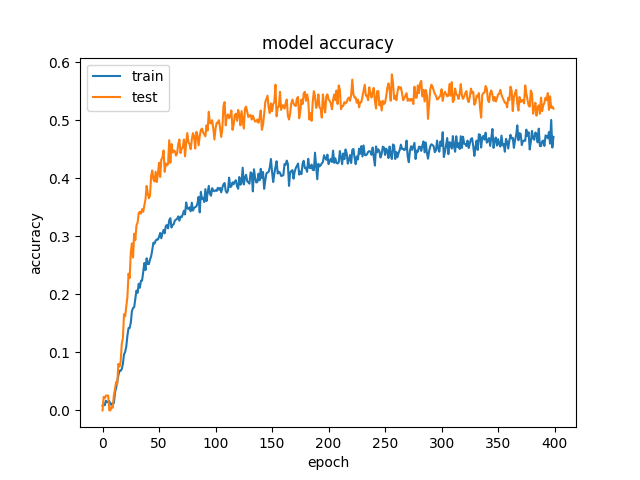
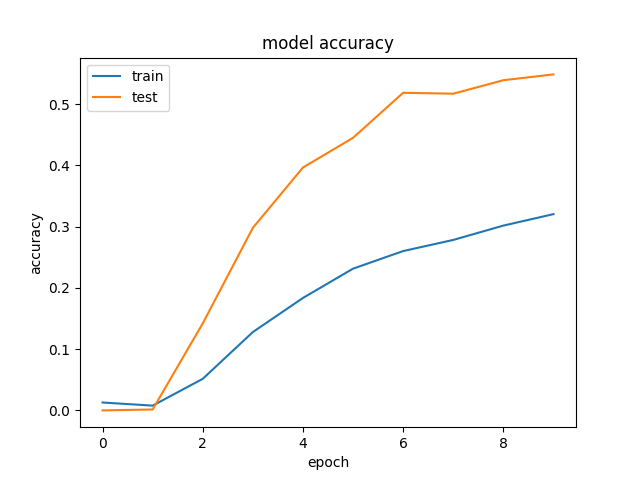
Batch training

diff --git a/captcha.py b/captcha.py
@@ -11,6 +11,13 @@ import pandas
 import os
 from scipy import ndimage
 
+
+from keras.models import Sequential
+from keras.layers.core import Dense, Activation, Flatten, Dropout
+from keras.layers.convolutional import Conv2D, Convolution2D
+from keras.layers.pooling import MaxPooling2D
+
+
 labels_file = 'data/captcha_labels.csv'
 
 # Number of  characters of output
@@ -20,47 +27,45 @@ n_classes = 57
 
 width = 60
 height = 60
-batch_size=256
-epochs=400
+batch_size=200
+epochs=10
+validation = 0.1
 
 csv_labels=pandas.read_csv(labels_file, na_filter=False)
 
 # load all files into memory
-X_train = csv_labels['path']
-y_train = csv_labels['inputted_captcha']
-# unravel string
-y_train = np.array([[i for i in x] for x in y_train])
+X = csv_labels['path']
+y = csv_labels['inputted_captcha']
+print(type(X))
 
-train_samples=len(X_train)
-steps = train_samples / batch_size
-
-print('Train samples: {}'.format(len(X_train)))
-
+# One hot encode each character
+y = np.array([[i for i in x] for x in y])
 from sklearn.preprocessing import LabelEncoder, OneHotEncoder
 lbl_enc=LabelEncoder()
-# transform to integer
-y_int = lbl_enc.fit_transform(y_train.ravel()).reshape(*y_train.shape)
+y_int = lbl_enc.fit_transform(y.ravel()).reshape(*y.shape)
 one_hot_enc=OneHotEncoder()
 # transform to binary
-y_train = one_hot_enc.fit_transform(y_int).toarray()
+y = one_hot_enc.fit_transform(y_int).toarray()
 
-print(lbl_enc.classes_  )
-print(len(lbl_enc.classes_))
- 
+total_samples = len(y)
+train_samples = int(total_samples*(1-validation))
+validation_samples = total_samples - train_samples
+steps = int(train_samples / batch_size)
+
 def normalize(x):
     a = -0.5
     b = 0.5
     return a + ( (x * (b - a) )/ 255 )
 
-def batch_generator(batch_size):
+def batch_generator(X_data, y_data, first_index, last_index, batch_size, debug=False):
    while 1:
-        for i in range(0, len(X_train), batch_size):
-            stop_ = min(i+batch_size, len(X_train))
+        for i in range(0, len(X_data), batch_size):
+            stop_ = min(i+batch_size, len(X_data))
             x_batch = []
-            y_batch = y_train[i:stop_]
+            y_batch = y_data[i:stop_]
             for x in range(i, stop_):
-                filename = X_train[x]
-                if isfile(filename):
+               filename = X_data[x]
+               if isfile(filename):
                     image_data = ndimage.imread(filename)
                     x_batch.append(image_data)
 
@@ -72,11 +77,9 @@ def batch_generator(batch_size):
 # input = 60x160x3  (RGB image)
 # output = 5x57     (5 chars one-hot encoded)
 
-
-from keras.models import Sequential
-from keras.layers.core import Dense, Activation, Flatten, Dropout
-from keras.layers.convolutional import Conv2D, Convolution2D
-from keras.layers.pooling import MaxPooling2D
+print('Train samples: {}'.format(train_samples))
+print('Validation samples: {}'.format(validation_samples))
+print('Batch Size: {}, steps: {}'.format(batch_size, steps))
 
 model = Sequential()
 model.add(Conv2D(32, (3, 3), padding="valid", input_shape=(height, width, 3)))
@@ -108,7 +111,12 @@ model.add(Activation('softmax'))
 model.compile('adam', 'categorical_crossentropy', ['accuracy'])
 
 assert model.layers[0].input_shape == (None, height, width, 3), 'First layer input shape is wrong, it should be (60,160,3)'
-history = model.fit_generator(batch_generator(batch_size=batch_size), epochs=epochs, steps_per_epoch=steps)
+validation_steps = int(validation_samples/batch_size)
+print('Validation Steps={}'.format(validation_steps))
+history = model.fit_generator(batch_generator(X, y, 0, train_samples, batch_size=batch_size), 
+                              steps, epochs=epochs,
+                              validation_data=batch_generator(X, y, train_samples, total_samples, batch_size, debug=True), validation_steps=validation_steps,
+                              )
 
 import matplotlib.pyplot as plt
 # summarize history for accuracy
@@ -117,7 +125,7 @@ plt.plot(history.history['val_acc'])
 plt.title('model accuracy')
 plt.ylabel('accuracy')
 plt.xlabel('epoch')
-plt.legend(['train', 'test'], loc='upper left')
+plt.legend(['train', 'validation'], loc='upper left')
 plt.savefig('accuracy.png')
 # summarize history for loss
 plt.clf()
@@ -126,7 +134,7 @@ plt.plot(history.history['val_loss'])
 plt.title('model loss')
 plt.ylabel('loss')
 plt.xlabel('epoch')
-plt.legend(['train', 'test'], loc='upper left')
+plt.legend(['train', 'validation'], loc='upper left')
 plt.savefig('loss.png')
 
 #X_test = np.array([normalize(x) for x in X_test])

diff --git a/gen_captcha.py b/gen_captcha.py
@@ -9,7 +9,7 @@ n = 2
 w= 60
 h= 60
 noise =0.1
-gen= 5000
+gen= 20000
 fonts = [
     ImageFont.truetype("lucida sans italic.ttf", 25),
     ImageFont.truetype("Lucida Sans Bold.ttf", 25),
